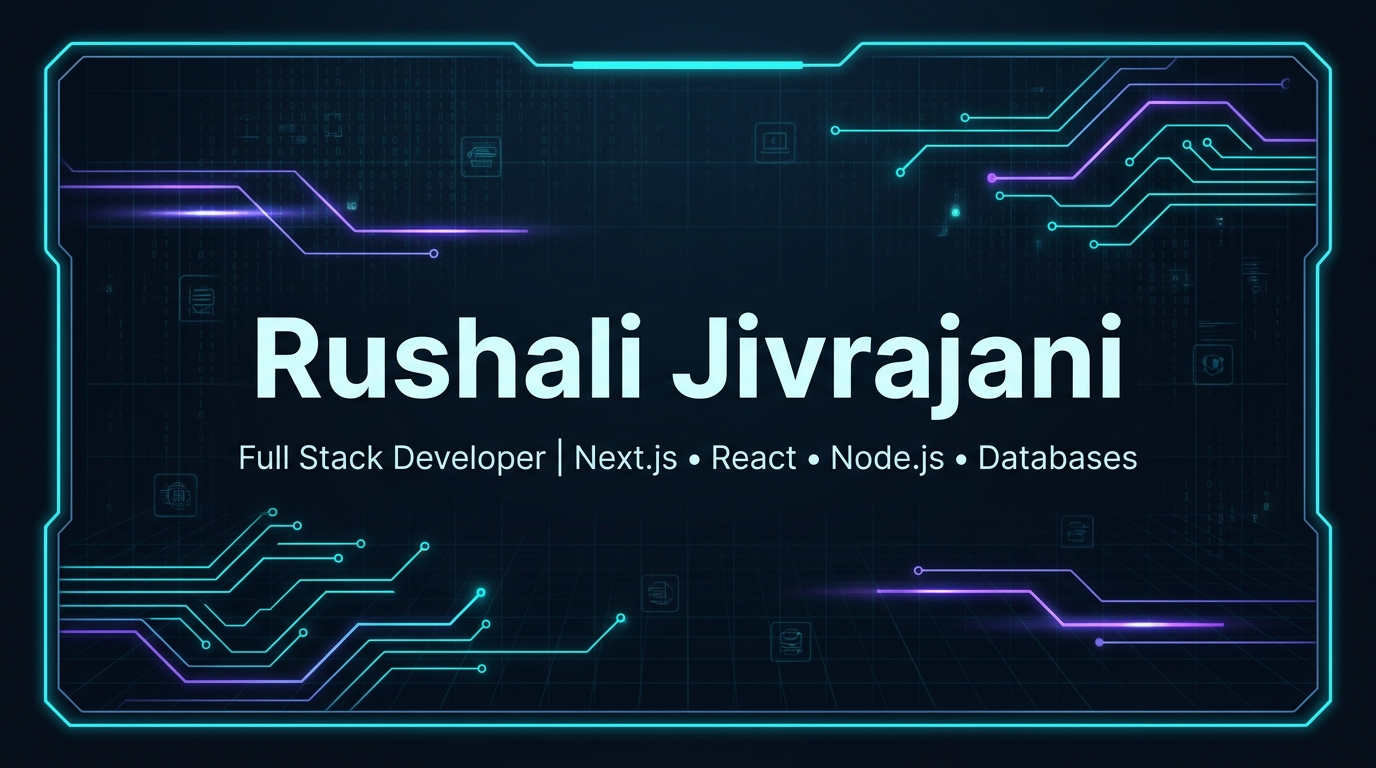
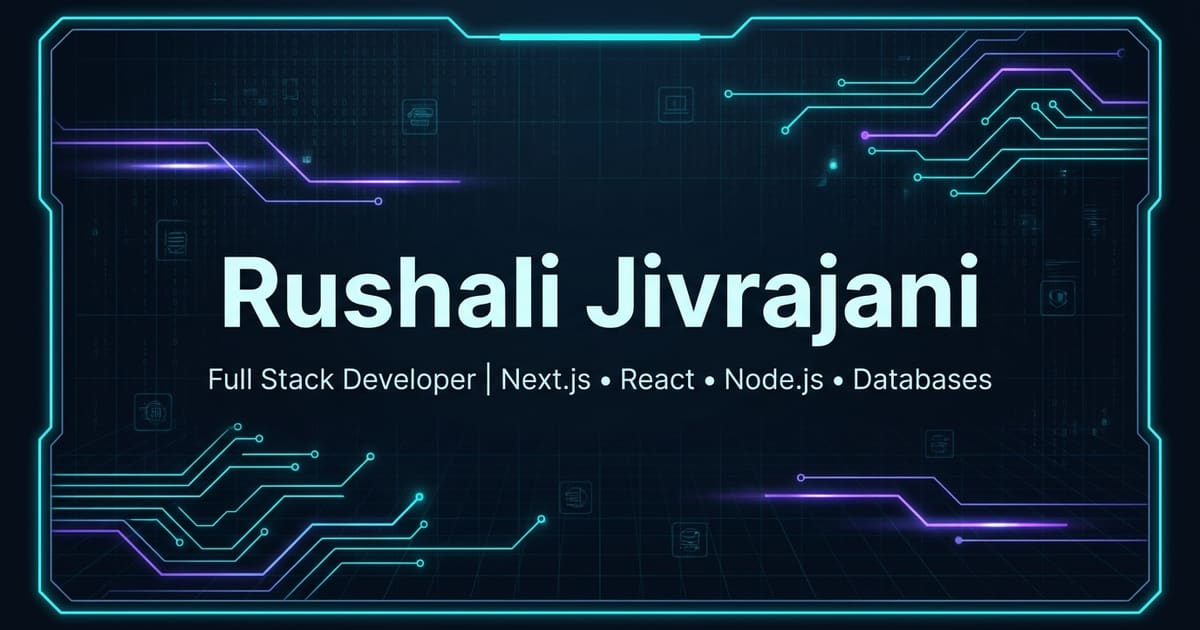
fix(og): compress og-image for WhatsApp 300KB limit and add direct image_src tags

diff --git a/src/app/layout.tsx b/src/app/layout.tsx
@@ -44,18 +44,20 @@ export const metadata: Metadata = {
     type: "website",
     images: [
       {
-        url: "/og-image.png",
-        width: 1200,
-        height: 630,
-        alt: "Rushali Jivrajani - Full Stack Developer",
-        type: "image/png",
-      },
-      {
-        url: "/og-image.jpg",
+        url: "https://rushali-jivrajani.vercel.app/og-image.jpg",
+        secureUrl: "https://rushali-jivrajani.vercel.app/og-image.jpg",
         width: 1200,
         height: 630,
         alt: "Rushali Jivrajani - Full Stack Developer",
         type: "image/jpeg",
+      },
+      {
+        url: "https://rushali-jivrajani.vercel.app/og-image.png",
+        secureUrl: "https://rushali-jivrajani.vercel.app/og-image.png",
+        width: 1200,
+        height: 630,
+        alt: "Rushali Jivrajani - Full Stack Developer",
+        type: "image/png",
       },
     ],
   },
@@ -63,7 +65,7 @@ export const metadata: Metadata = {
     card: "summary_large_image",
     title: "Rushali Jivrajani | Full Stack Developer",
     description: "Portfolio of Rushali Jivrajani — Full Stack Developer specializing in Next.js, React.js, Node.js, and databases.",
-    images: ["/og-image.png"],
+    images: ["https://rushali-jivrajani.vercel.app/og-image.jpg"],
     creator: "@rush4812",
   },
   icons: {
@@ -94,7 +96,7 @@ export default function RootLayout({
     name: "Rushali Jivrajani",
     jobTitle: "Full Stack Developer",
     url: "https://rushali-jivrajani.vercel.app",
-    image: "https://rushali-jivrajani.vercel.app/og-image.png",
+    image: "https://rushali-jivrajani.vercel.app/og-image.jpg",
     sameAs: [
       "https://github.com/rush4812",
       "https://linkedin.com/in/rushali-jivrajani"
@@ -115,6 +117,13 @@ export default function RootLayout({
   return (
     <html lang="en" className={`${inter.variable} ${spaceGrotesk.variable} scroll-smooth`}>
       <head>
+        <meta property="og:image" content="https://rushali-jivrajani.vercel.app/og-image.jpg" />
+        <meta property="og:image:secure_url" content="https://rushali-jivrajani.vercel.app/og-image.jpg" />
+        <meta property="og:image:type" content="image/jpeg" />
+        <meta property="og:image:width" content="1200" />
+        <meta property="og:image:height" content="630" />
+        <meta property="og:image:alt" content="Rushali Jivrajani - Full Stack Developer" />
+        <link rel="image_src" href="https://rushali-jivrajani.vercel.app/og-image.jpg" />
         <script
           type="application/ld+json"
           dangerouslySetInnerHTML={{ __html: JSON.stringify(jsonLd) }}
